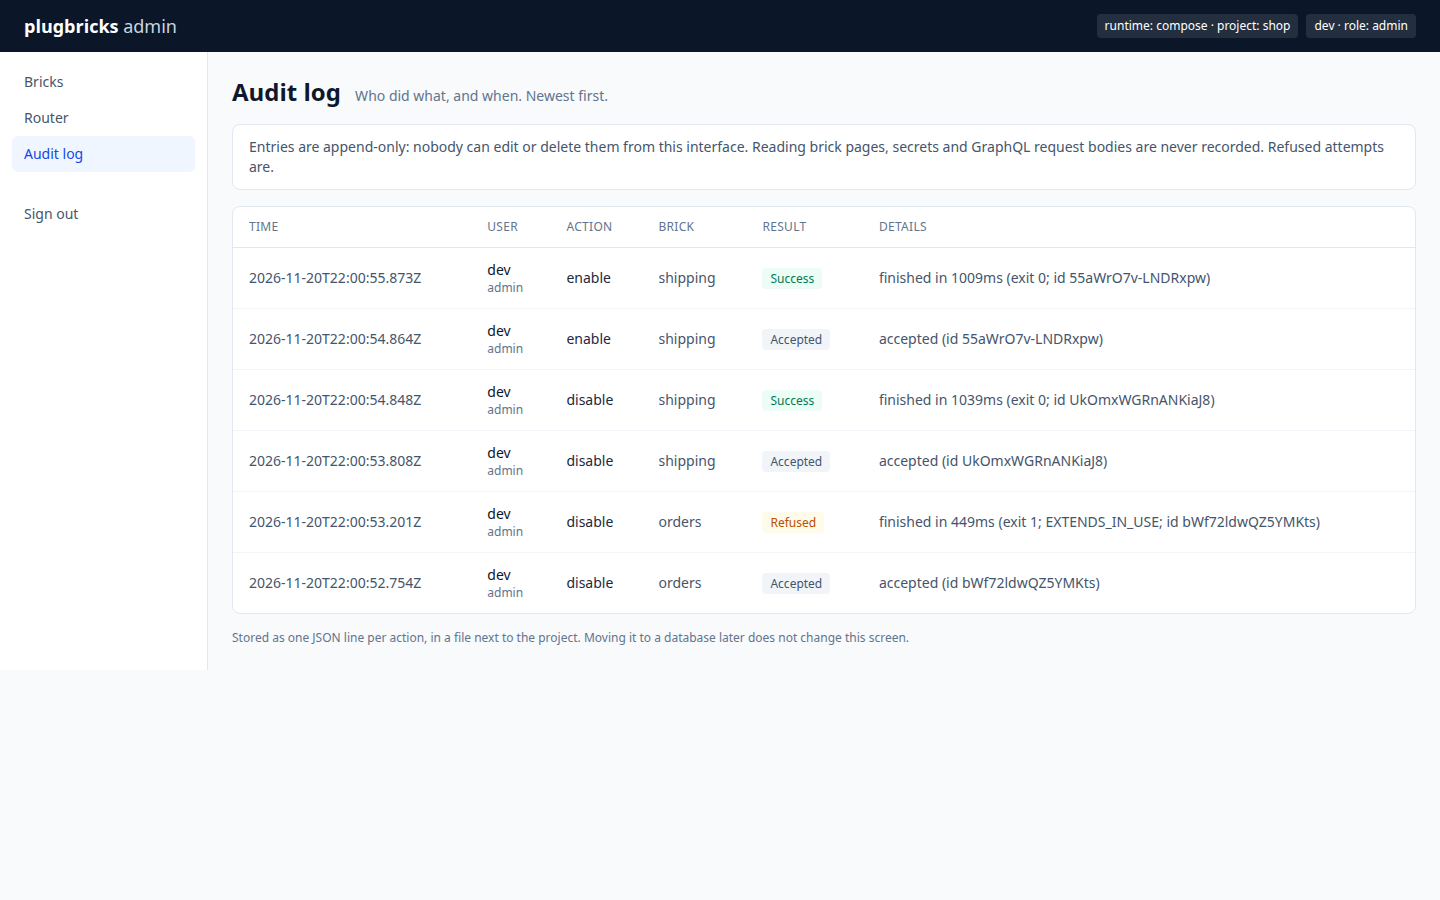
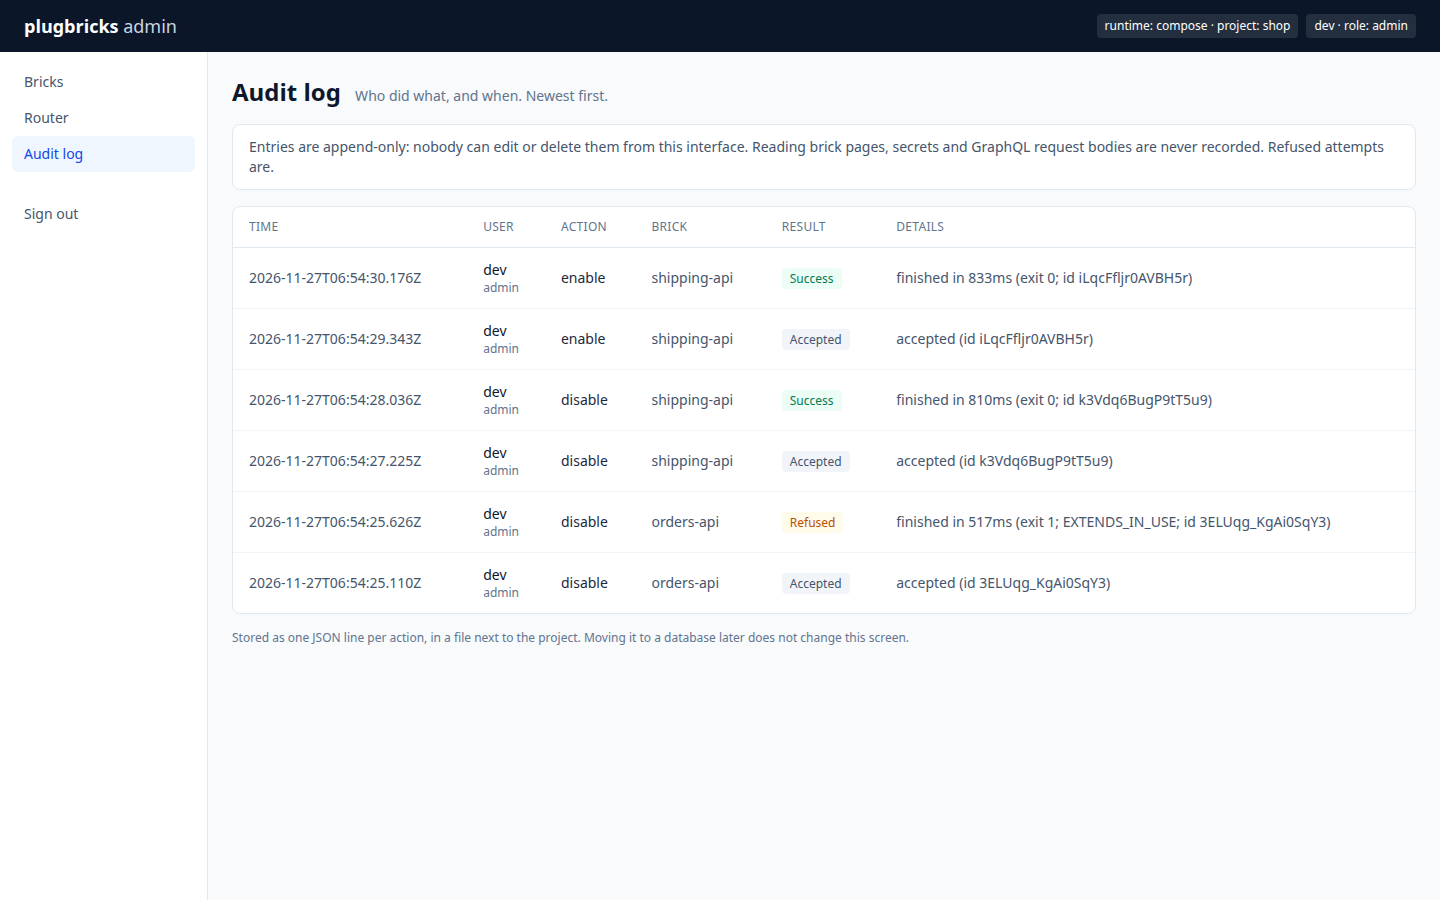
docs: take the admin screenshots again
The five screenshots of the admin still showed the bricks `orders` and `shipping` (renamed in D27), and the
dependencies panel had no optional link. Taken again on Docker Compose with the `demo` starter (postgres,
orders-api, shipping-api, orders-web), admin in --dev, headless Chrome. The guide no longer says the
dependencies screenshot is from an earlier version.

diff --git a/docs/guide/admin.md b/docs/guide/admin.md
@@ -22,22 +22,23 @@ through the router, a web brick's page on its own loopback port.
 
 ![The Bricks page: four healthy bricks, their tags, ports, subgraphs and router endpoint](../screenshots/admin-bricks.png)
 
-**What a brick needs** (the screenshot is from an earlier version, without the optional links): a click on a brick opens a panel under the table. *Dependencies* draws everything the brick
+**What a brick needs**: a click on a brick opens a panel under the table. *Dependencies* draws everything the brick
 needs, transitively: the capabilities it requires, the entities it extends, and the plugins its manifest lists in
-`dependencies`. Here `orders-web` needs `orders-api`, which needs `postgres`; the arrow says why. Below it, the
-bricks needed first, in order, and who requires this one. A brick that is needed but not installed is flagged. *Details*
+`dependencies`. Here `orders-web` needs `orders-api`, which needs `postgres`, and can use `shipping-api` (the dashed
+arrow); the label on an arrow says why. Below it, the bricks needed first, in order, and who
+requires this one. A brick that is needed but not installed is flagged. *Details*
 gathers status, restarts, port, `provides`, `requires`, `extends` and what would refuse its removal. A declared
 dependency protects its target from `remove` (`DEPENDENCY_IN_USE`), here `orders-api` while `orders-web` is installed,
 and from `disable` while the declaring brick is enabled; `add` warns when the declared brick is not installed, and `enable` when it is disabled;
 `up` waits only for the capabilities a brick requires. A dependency marked `optional` (here `shipping-api`, which
 `orders-web` can run without) is shown as optional and protects nothing.
 
-![The Dependencies panel of orders-web: orders-web needs orders, which needs postgres](../screenshots/admin-dependencies.png)
+![The Dependencies panel of orders-web: it needs orders-api, which needs postgres, and optionally shipping-api](../screenshots/admin-dependencies.png)
 
 **Removing a brick**: the dialog shows the CLI's refusal before anything runs, here `orders-api`, whose
 `Order` entity `shipping-api` extends.
 
-![The removal dialog for orders, blocked with EXTENDS_IN_USE](../screenshots/admin-remove-blocked.png)
+![The removal dialog for orders-api, blocked with EXTENDS_IN_USE](../screenshots/admin-remove-blocked.png)
 
 **Router**: the configuration, the subgraphs it calls and the composed schema, read-only.
 

diff --git a/docs/decisions.md b/docs/decisions.md
@@ -1854,7 +1854,7 @@ status } }` answers `{"data":{"shipment":{"carrier":"ups","status":"SHIPPED"}}}`
 - **For a platform already running the old names:** `remove orders` (and `shipping`) then `add orders-api`; the new API
   gets a new database, so the old orders are not carried over. This only concerns our own test platforms.
 - **Not done here:** the screenshots of the README show the old names; they will be taken again with the next change
-  of the admin.
+  of the admin. (The admin's screenshots were taken again on 2026-11-27.)
 
 ## D28. `plugbricks create <name> --kind api|web`: the brick in `bricks/`, its code in `services/`
 
@@ -2406,7 +2406,8 @@ status } }` answers `{"data":{"shipment":{"carrier":"ups","status":"SHIPPED"}}}`
   on that machine): queried, its page answered 200.
 - **Not tested.** The deployment itself, and whether the repository's token may deploy to Pages (a setting). The pages read on
   a phone. The commands of the other pages are checked for their names, not run.
-- **Limit.** The screenshot of the admin's dependencies is from an earlier version, and the page says so.
+- **Limit.** The screenshot of the admin's dependencies was from an earlier version when the site was written, and the
+  page said so; the admin's screenshots were taken again on 2026-11-27.
 
 ## Already applied (milestone 2)
 

diff --git a/docs/roadmap.md b/docs/roadmap.md
@@ -202,8 +202,7 @@ object store (MinIO), a test mail server (Mailpit). Kafka stays deferred (sectio
 
 ## 9. Decided earlier, not done
 
-- **README screenshot** (`docs/screenshots/admin-dependencies.png`) is out of date: no optional links, no
-  Authorization rows.
+- ~~**Admin screenshots** out of date (the old brick names, no optional links)~~: taken again on 2026-11-27.
 - **Sign-in to the admin on k3d.** The sign-in is tested end to end on Docker Compose only; the k3d job covers the
   tokens through the router (D18).
 - **D22 step B**: a rule per field (`@requiresScopes`) and the router enforcing it too. Only if a real field asks for it.
